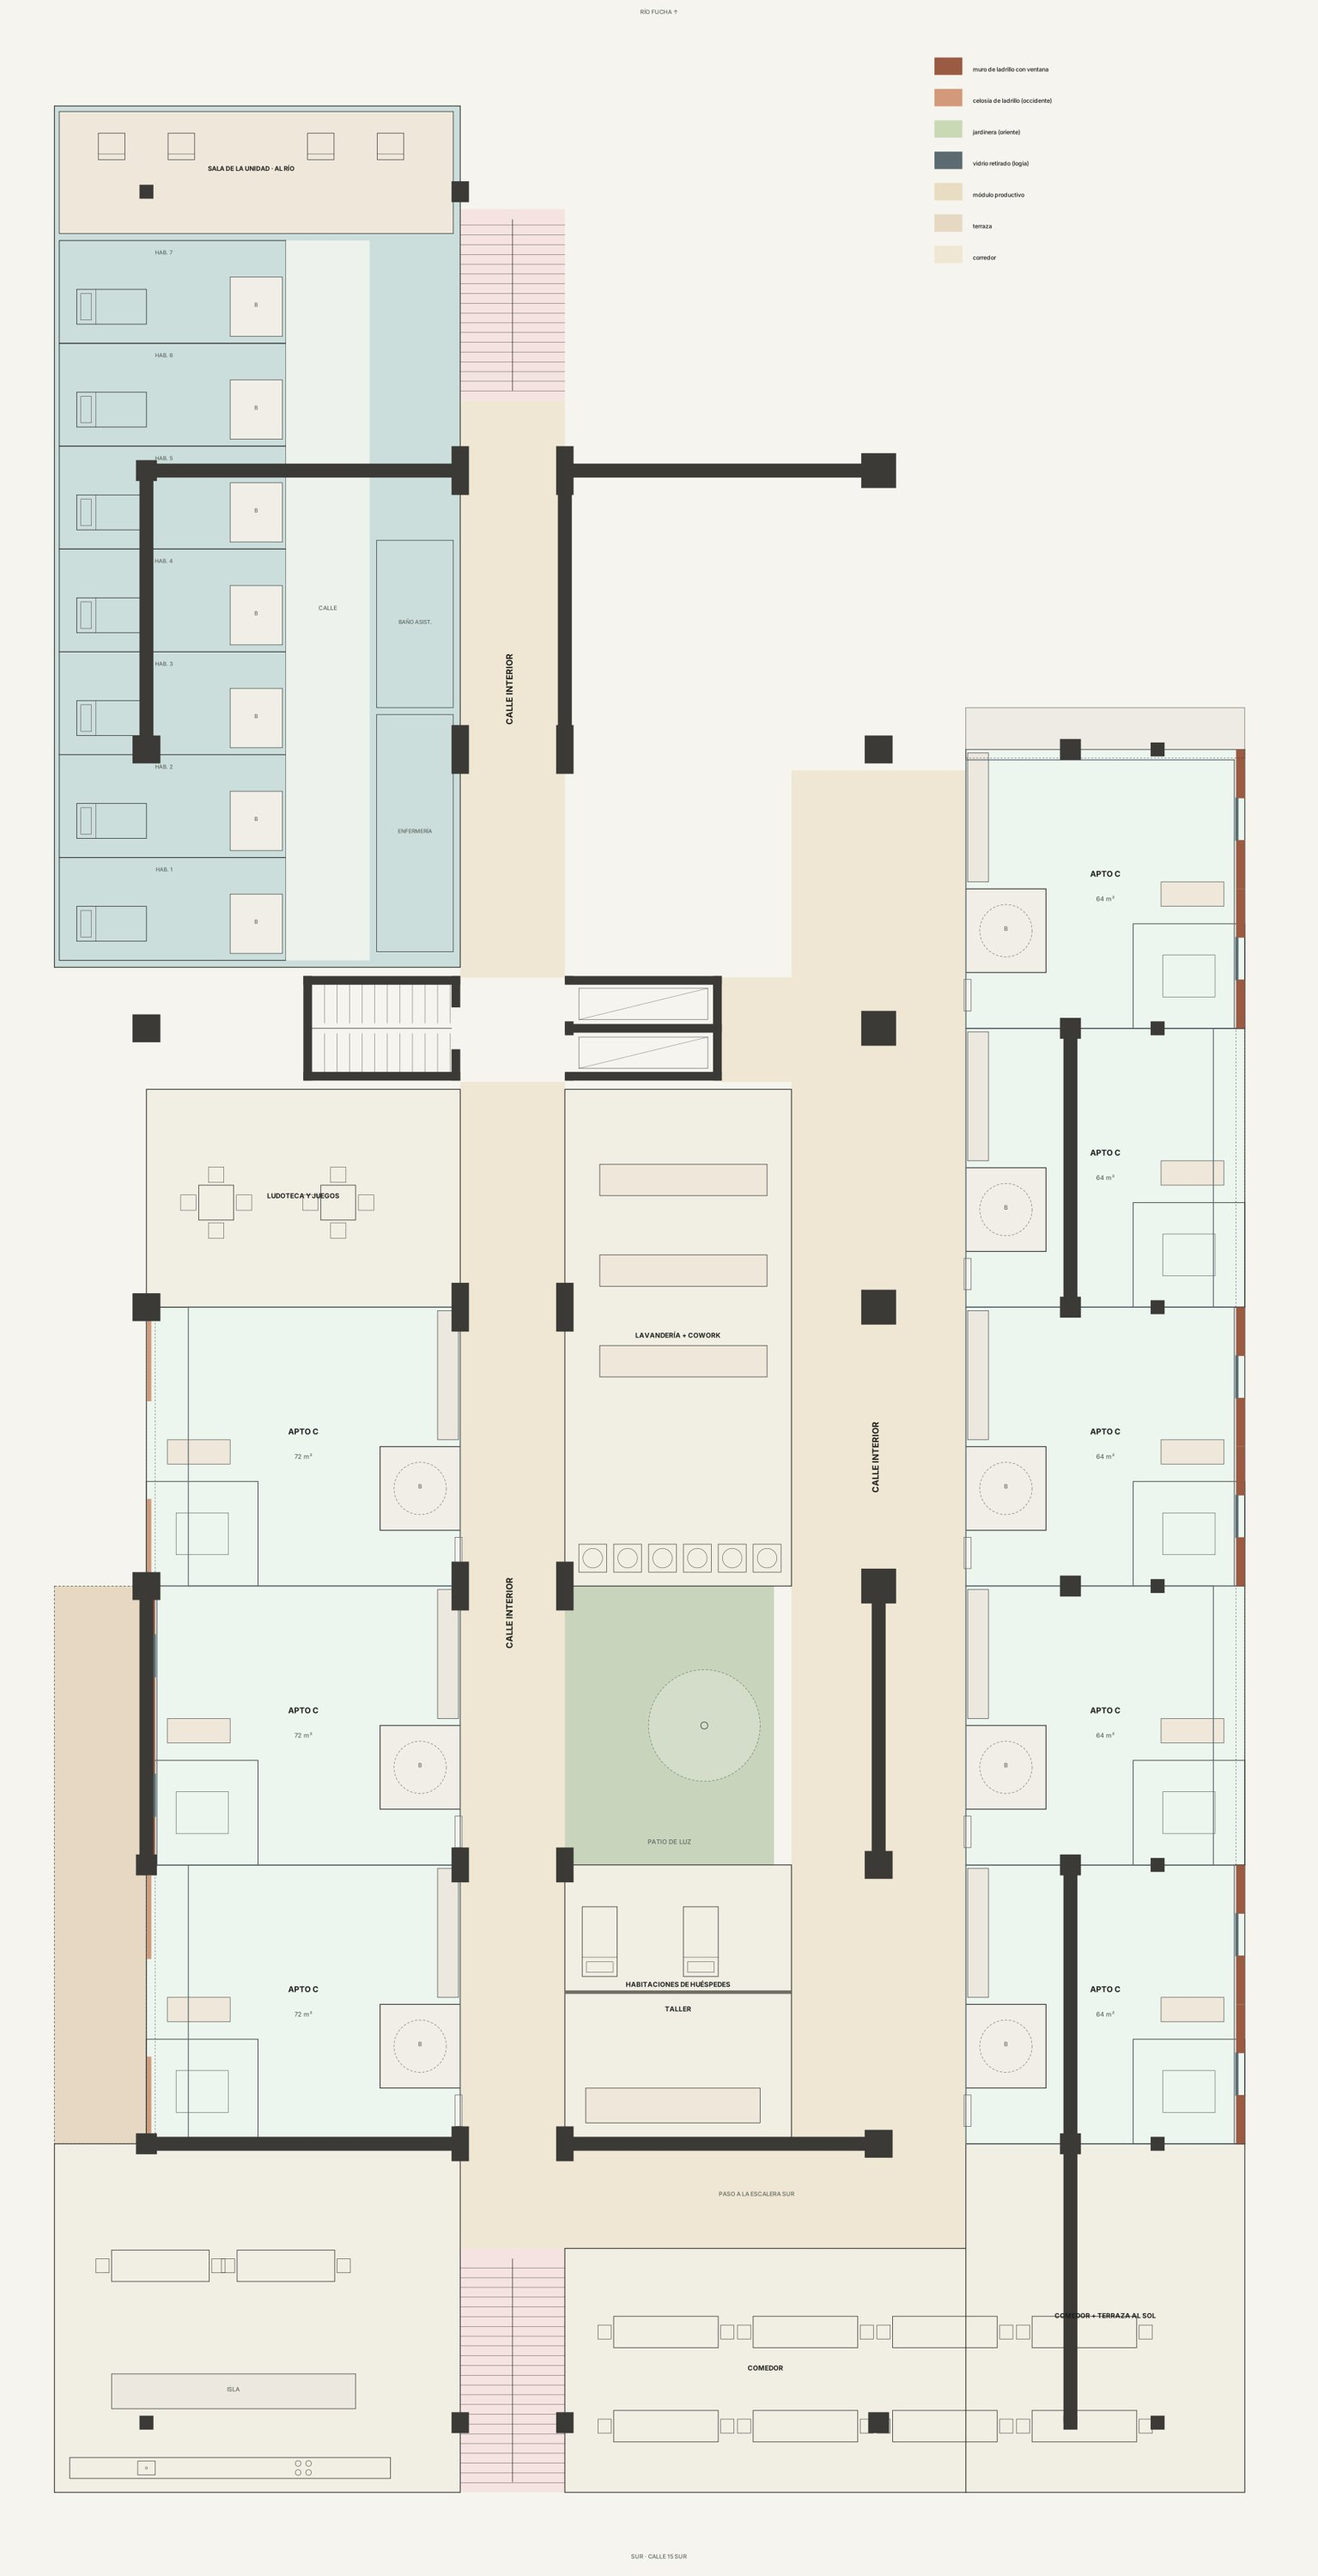
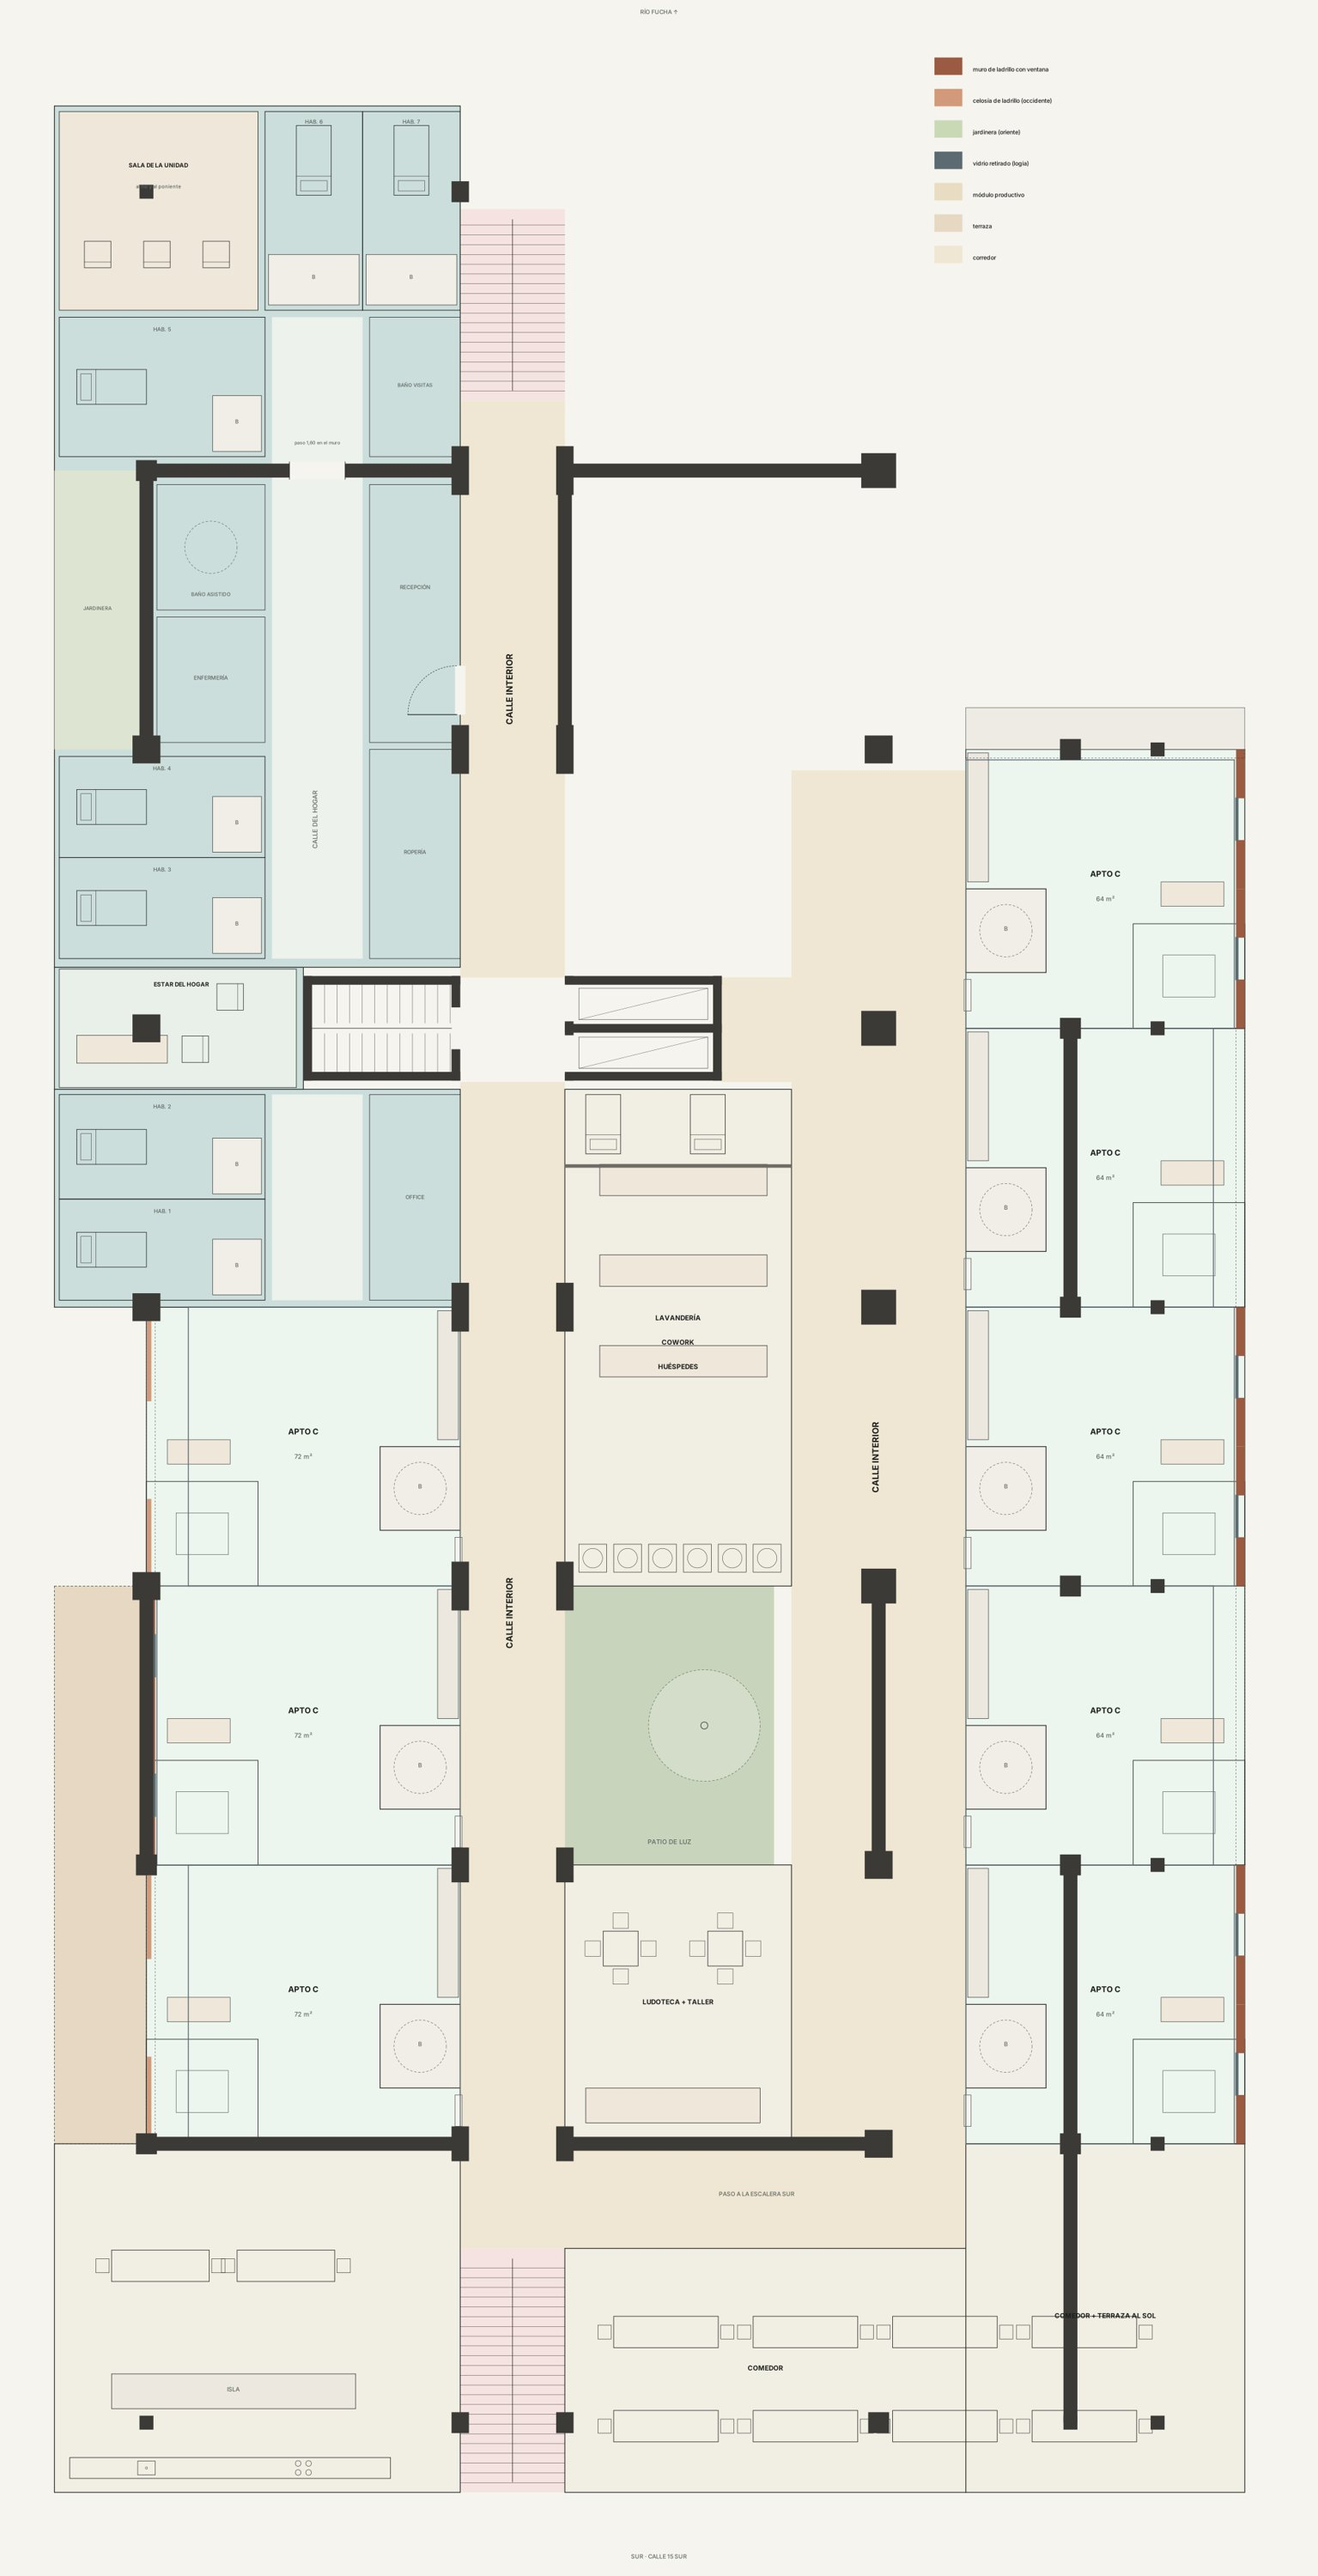
La Ola: apartamentos amoblados con su fachada y P3 con el hogar alrededor de los muros
Claude-Session: https://claude.ai/code/session_01Rs9TY9ki2YSVtRsSTGuvtX

diff --git a/la-ola/index.html b/la-ola/index.html
@@ -287,30 +287,28 @@ footer{border-top:1px solid var(--rule);padding-top:16px;display:flex;flex-wrap:
 </section>
 
 <section class="sec ancha">
-  <div class="lado"><span class="rot">Tipologías</span><h2>Seis apartamentos en cuatro módulos</h2><p class="nota">Cada tipología cabe exacta en un módulo del modelo. Los muros de fachada son de ladrillo; los interiores, livianos, para que la planta pueda cambiar con la familia. En el modelo, las ventanas van con antepecho; la terraza vidriada y el dúplex del río son las excepciones.</p></div>
+  <div class="lado"><span class="rot">Tipologías</span><h2>Cada apartamento con su fachada</h2><p class="nota">Un apartamento real de cada tipo, dibujado en su lugar del edificio: la logia o la caja de ladrillo que le toca, y el módulo productivo con vitrina a la calle interior en los pisos 4 a 7. Muros interiores livianos para que la planta cambie con la familia.</p></div>
   <div class="cuerpo tipos">
-    <figure class="plano"><img src="img/aptos/tipo-A.svg" alt="Planta del tipo A, 6,5 por 8 metros: una alcoba, baño, cocina abierta, comedor y sala hacia la fachada"><figcaption><b>A · 52 m²</b> · 6,5 × 8 m · 1 alcoba</figcaption></figure>
-    <figure class="plano"><img src="img/aptos/tipo-B.svg" alt="Planta del tipo B, 8 por 8 metros: dos alcobas, estudio, baño, cocina y sala comedor"><figcaption><b>B · 64 m²</b> · 8 × 8 m · 2 alcobas y estudio</figcaption></figure>
-    <figure class="plano"><img src="img/aptos/tipo-C.svg" alt="Planta del tipo C para adulto mayor, 8 por 8 metros: alcoba con puerta corrediza, baño accesible con giro de silla de ruedas, cocina comedor y mirador en esquina"><figcaption><b>C · 64 m²</b> · adulto mayor · baño accesible, puertas corredizas y mirador</figcaption></figure>
-    <figure class="plano"><img src="img/aptos/tipo-D.svg" alt="Planta del tipo D, 9 por 10,5 metros: tres alcobas, dos baños, cocina abierta, sala comedor y terraza vidriada en la fachada"><figcaption><b>D · 94,5 m²</b> · 9 × 10,5 m · 3 alcobas y terraza vidriada</figcaption></figure>
-    <div class="duplex">
-      <figure class="plano"><img src="img/aptos/tipo-E1.svg" alt="Dúplex hacia el río, piso 1: sala, comedor y cocina abiertos con vidrio de piso a techo hacia una terraza sobre el río Fucha"><figcaption><b>E · dúplex río · piso 1</b> · la vida social, abierta al río</figcaption></figure>
-      <figure class="plano"><img src="img/aptos/tipo-E2.svg" alt="Dúplex hacia el río, piso 2: dos alcobas, baño y estudio detrás de una jardinera y una celosía de ladrillo"><figcaption><b>E · piso 2</b> · alcobas detrás de una celosía de ladrillo · 128 m² en total</figcaption></figure>
-    </div>
-    <figure class="plano"><img src="img/aptos/tipo-F.svg" alt="Vivienda productiva, nivel de calle: taller o tienda con vitrina, baño y escalera privada a la casa"><figcaption><b>F · vivienda productiva</b> · taller o tienda a la calle y la casa encima (tipo B)</figcaption></figure>
-    <figure class="plano asig"><img src="img/aptos/asignacion.png" alt="Axonometría de La Ola con cada apartamento coloreado según su tipología y sus ventanas abiertas: dúplex hacia el río Fucha, viviendas productivas hacia la calle, adulto mayor en el primer piso de vivienda y familias en los módulos grandes">
-      <figcaption><b>Dónde va cada uno</b> · ≈ 69 viviendas · el núcleo y el corredor quedan libres en todos los pisos · vista desde la esquina del río y la calle</figcaption>
-      <div class="leyenda"><span><i style="background:#E8B278"></i>A · 16</span><span><i style="background:#BE6836"></i>B · 28</span><span><i style="background:#7C629C"></i>C · 7</span><span><i style="background:#7A3A1E"></i>D · 10</span><span><i style="background:#3C8C96"></i>E · 3 dúplex</span><span><i style="background:#D6AA3C"></i>F · 5</span></div>
-    </figure>
+    <figure class="plano"><img src="img/v4/apto-a.jpg" alt="Apartamento A productivo de 52 m2 con taller y vitrina a la calle interior, alcoba y sala hacia una logia con celosía al occidente" loading="lazy"><figcaption><b>A productiva · 52 m²</b> · taller con vitrina · logia con celosía</figcaption></figure>
+    <figure class="plano"><img src="img/v4/apto-b.jpg" alt="Apartamento B productivo de 72 m2 con tienda, dos alcobas y logia al occidente" loading="lazy"><figcaption><b>B productiva · 72 m²</b> · tienda, alcoba y estudio</figcaption></figure>
+    <figure class="plano"><img src="img/v4/apto-b6.jpg" alt="Apartamento B6 amoblado de 56 m2 en caja de ladrillo con ventanas verticales de antepecho" loading="lazy"><figcaption><b>B6 amoblado · 56 m²</b> · caja de ladrillo, ventana de antepecho</figcaption></figure>
+    <figure class="plano"><img src="img/v4/apto-c.jpg" alt="Apartamento C accesible de 64 m2: puertas corredizas, baño con giro de silla de ruedas y logia con jardinera a los cerros" loading="lazy"><figcaption><b>C accesible · 64 m²</b> · giro de 1,50 en baño, cocina y alcoba</figcaption></figure>
+    <figure class="plano"><img src="img/v4/apto-d.jpg" alt="Apartamento D de 94 m2 en la esquina del río: tres alcobas, dos baños y terraza fina sobre el río Fucha" loading="lazy"><figcaption><b>D río · 94 m²</b> · 3 alcobas, terraza fina al río</figcaption></figure>
+    <figure class="plano"><img src="img/v4/apto-g.jpg" alt="Apartamento G de 136 m2 junto al patio de luz: tres alcobas, estudio con luz del patio y terraza sobre el piso 3 hacia los cerros" loading="lazy"><figcaption><b>G · 136 m²</b> · estudio al patio, terraza a los cerros</figcaption></figure>
+    <figure class="plano"><img src="img/v4/apto-s.jpg" alt="Apartamento S de la franja sur de 54 m2 con logia propia al sur separada del corredor" loading="lazy"><figcaption><b>S franja sur · 54 m²</b> · logia propia al sur</figcaption></figure>
+    <figure class="plano"><img src="img/aptos/tipo-F.svg" alt="Vivienda productiva, nivel de calle: taller o tienda con vitrina, baño y escalera privada a la casa"><figcaption><b>F · vivienda productiva</b> · taller a la calle y la casa encima</figcaption></figure>
     <div class="tabla"><table>
-      <thead><tr><th>Tipo</th><th>Módulo</th><th>Área</th><th>Para quién</th><th>Referente</th></tr></thead>
+      <thead><tr><th>Tipo</th><th>Unidades</th><th>Para quién</th><th>Referente</th></tr></thead>
       <tbody>
-        <tr><td>A</td><td>6,5 × 8</td><td>52 m²</td><td>Persona sola o pareja</td><td>La Borda, Lacol</td></tr>
-        <tr><td>B</td><td>8 × 8</td><td>64 m²</td><td>Pareja con un hijo</td><td>La Borda, Lacol</td></tr>
-        <tr><td>C</td><td>8 × 8</td><td>64 m²</td><td>Adulto mayor</td><td>Residencia en Masans, Zumthor</td></tr>
-        <tr><td>D</td><td>9 × 10,5</td><td>94,5 m²</td><td>Familia</td><td>59 viviendas, Lacaton &amp; Vassal</td></tr>
-        <tr class="u"><td>E</td><td>2 × 8 × 8</td><td>128 m²</td><td>Familia, frente al río</td><td>Celosía de la Fundación Santa Fe</td></tr>
-        <tr><td>F</td><td>8 × 8 + casa</td><td>64 + 64 m²</td><td>Quien trabaja en casa</td><td>Quinta Monroy, Elemental</td></tr>
+        <tr><td>A · 1 alcoba / estudio</td><td>16</td><td>Persona sola o pareja</td><td>La Borda, Lacol</td></tr>
+        <tr><td>B · 2 alcobas</td><td>25</td><td>Pareja con un hijo</td><td>La Borda, Lacol</td></tr>
+        <tr><td>C · accesible</td><td>13</td><td>Mayores de la cooperativa</td><td>Residencia en Masans, Zumthor</td></tr>
+        <tr><td>D · 3 alcobas</td><td>5</td><td>Familia</td><td>59 viviendas, Lacaton &amp; Vassal</td></tr>
+        <tr><td>G · gran familia</td><td>3</td><td>Familia grande</td><td>—</td></tr>
+        <tr><td>S · franja sur</td><td>6</td><td>Persona sola o pareja</td><td>—</td></tr>
+        <tr><td>Amoblados</td><td>3</td><td>Estadías cortas</td><td>—</td></tr>
+        <tr><td>F · productiva</td><td>4</td><td>Quien trabaja en casa</td><td>Quinta Monroy, Elemental</td></tr>
+        <tr class="u"><td>Dúplex y casa patio</td><td>3</td><td>Familia, frente al río</td><td>—</td></tr>
       </tbody>
     </table></div>
   </div>
